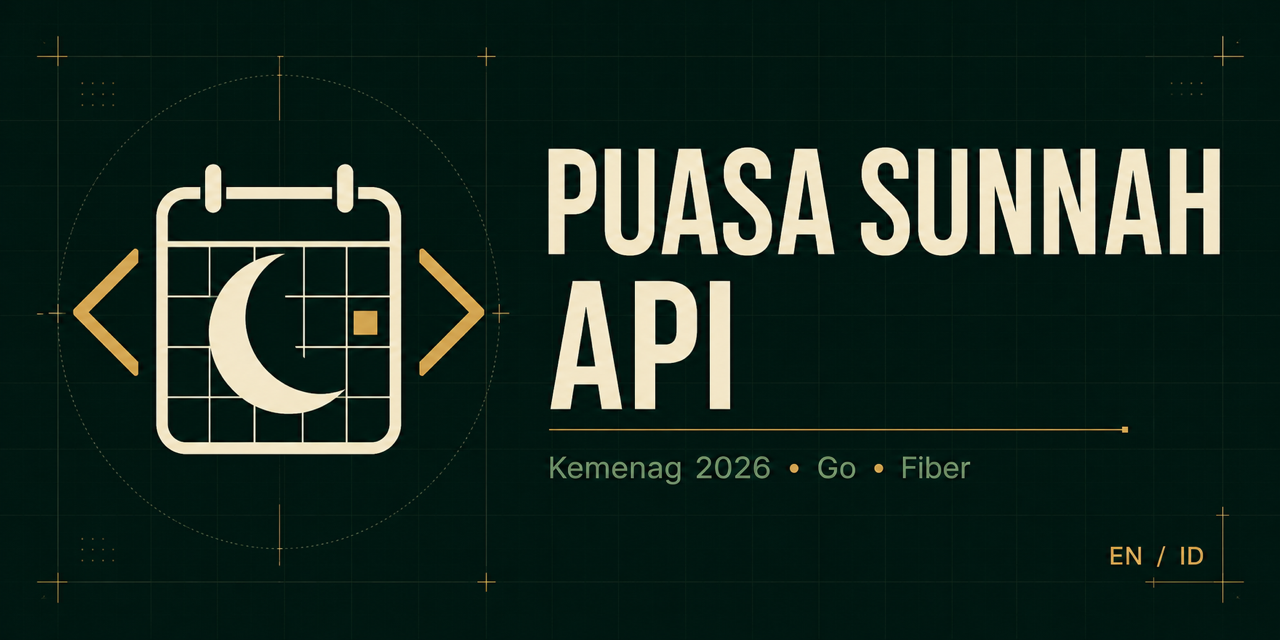
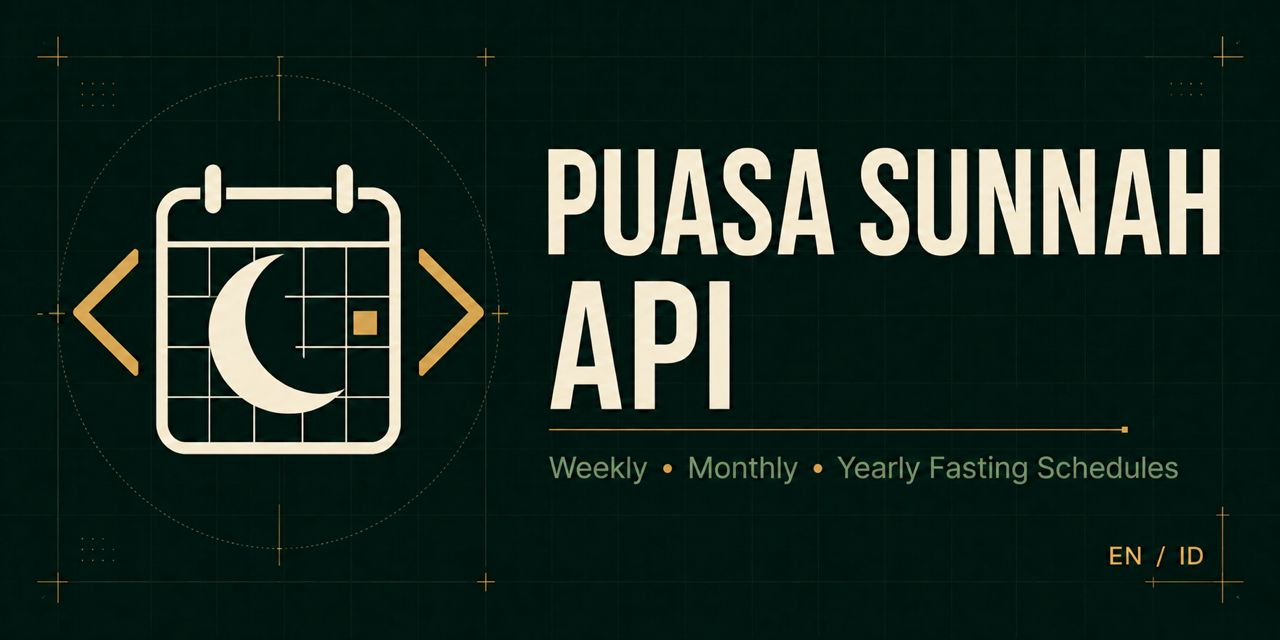
docs: simplify repository social preview
Amp-Thread-ID: https://ampcode.com/threads/T-019fe3e0-d409-735c-b87c-554fa57b5998

diff --git a/cmd/api/main.go b/cmd/api/main.go
@@ -14,7 +14,7 @@ import (
 
 // @title Puasa Sunnah API
 // @version 1.0
-// @description Production API for classifying and scheduling voluntary Islamic fasting days using the published Kementerian Agama RI 2026 Hijri calendar.
+// @description Production API for classifying and scheduling voluntary Islamic fasting days using the published Kementerian Agama RI Hijri calendar.
 // @description Calendar output is planning information, not a fatwa. Ramadan, Shawwal, and Dhu al-Hijjah dates may be superseded by an official Sidang Isbat decision.
 // @BasePath /
 // @schemes http https
